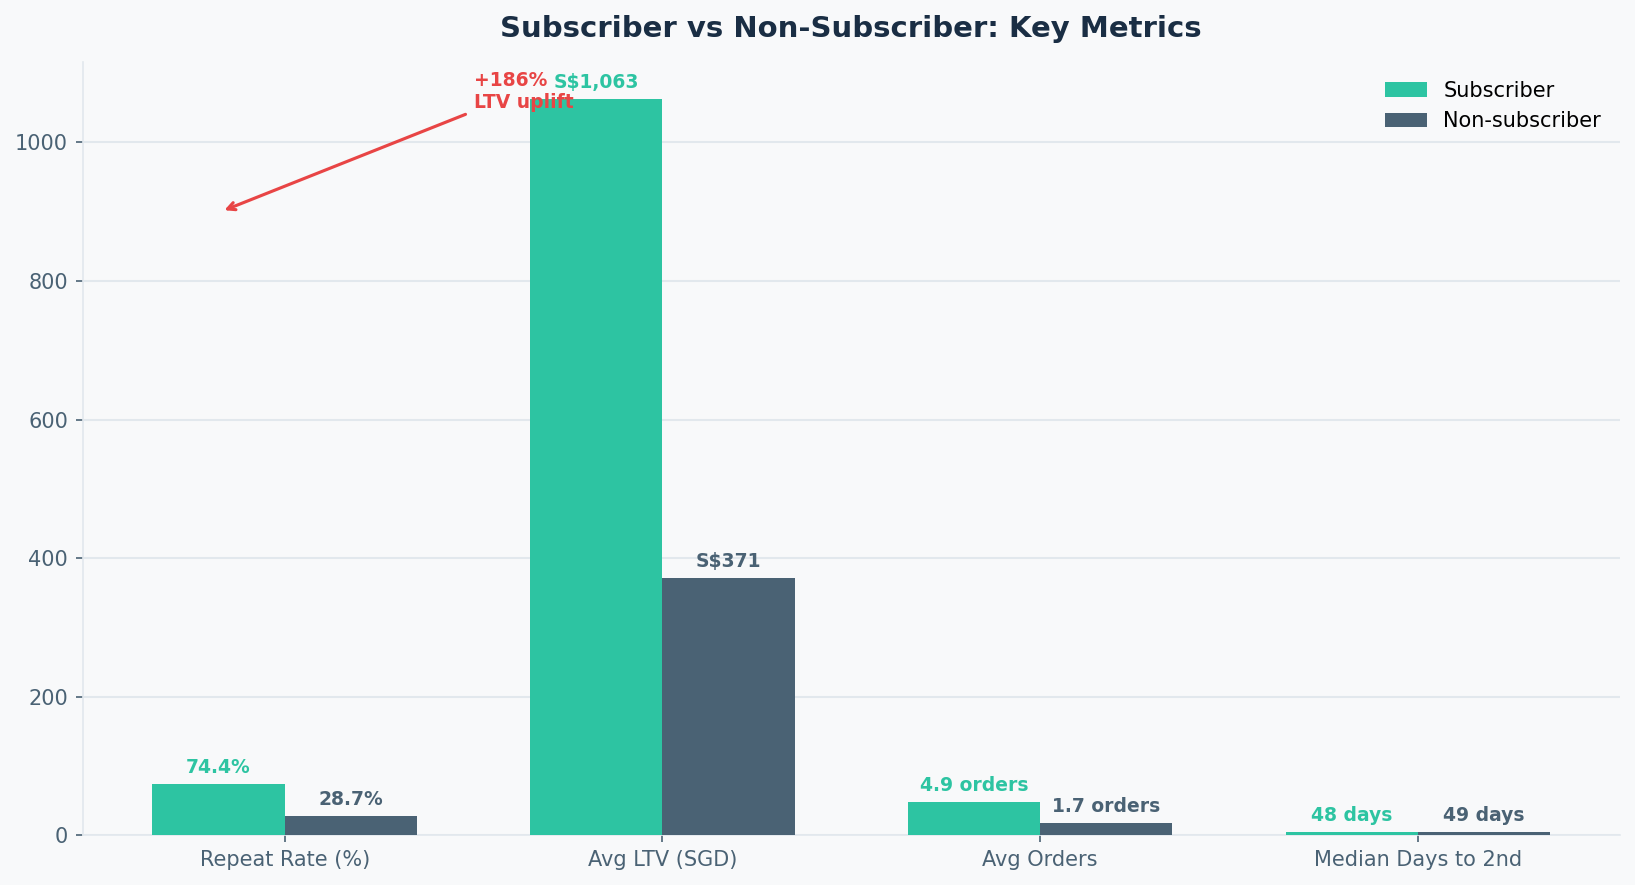
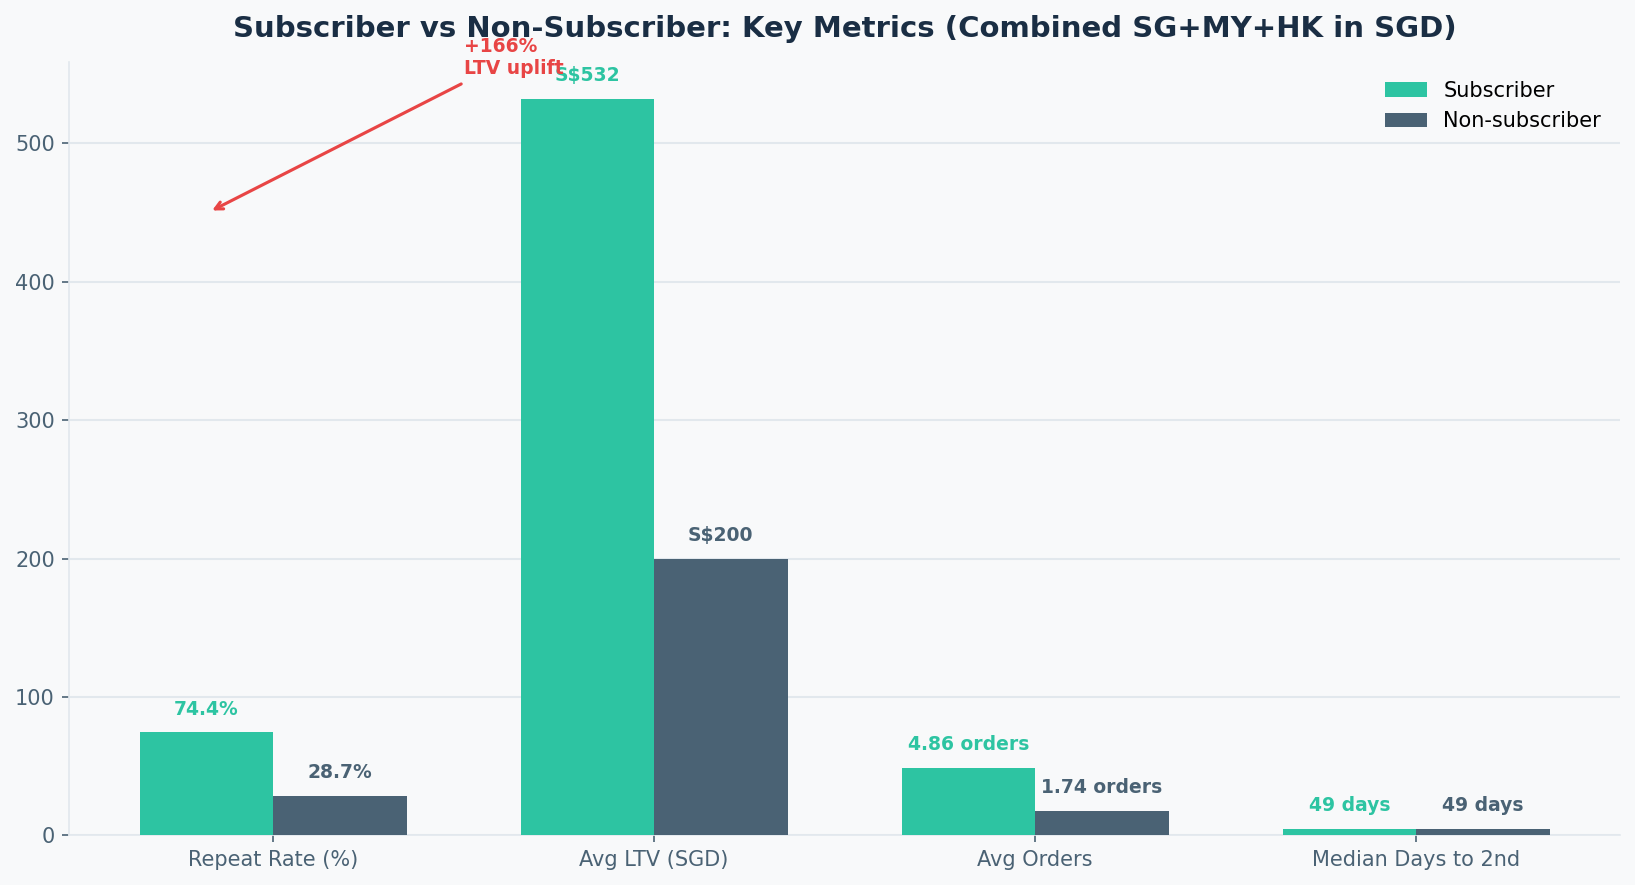
Updated visualizations

diff --git a/visualizations/05_discount_channel.py b/visualizations/05_discount_channel.py
@@ -14,10 +14,10 @@ import matplotlib.patches as mpatches
 from style import save, TEAL, NAVY, ORANGE, RED, SLATE, GOLD, LIGHT_BG, LILAC
 
 # ── Chart 1: Discount depth — repeat rate and LTV ────────────────────────────
-disc_bins   = ["Full price", "1-5% off", "6-10% off", "11-20% off", "21-30% off", "31-50% off", "51%+ off"]
-rr_vals     = [36.4, 17.7, 26.1, 25.5, 25.5, 23.0, 21.9]
-ltv_vals    = [542,  157,  260,  162,  237,  196,  181]
-n_custs     = [9398, 186, 395, 1250, 458, 1189, 430]
+disc_bins   = ["Full price", "1-5% off", "5-10% off", "10-20% off", "20-30% off", "30-50% off", "50%+ off"]
+rr_vals     = [38.0, 25.1, 23.3, 24.8, 24.2, 22.3, 19.1]
+ltv_vals    = [293,  132,  129,  119,  155,  105,   54]
+n_custs     = [8635, 395, 536, 1133, 1286, 555, 1240]
 
 fig, ax1 = plt.subplots(figsize=(13, 6))
 x = np.arange(len(disc_bins))
@@ -38,17 +38,17 @@ for bar, v, n in zip(bars, rr_vals, n_custs):
 ax2 = ax1.twinx()
 ax2.plot(x, ltv_vals, color=RED, marker="D", linewidth=2.5, markersize=8, zorder=4, label="Avg LTV")
 ax2.set_ylabel("Average LTV (SGD)", color=RED, fontsize=11)
-ax2.set_ylim(0, 700)
+ax2.set_ylim(0, 400)
 ax2.yaxis.set_major_formatter(mticker.FuncFormatter(lambda v,_: f"S${v:.0f}"))
 ax2.spines["right"].set_visible(True); ax2.spines["right"].set_color(RED)
 ax2.tick_params(axis="y", colors=RED)
 for xi, v in enumerate(ltv_vals):
     ax2.text(xi, v+15, f"S${v}", ha="center", fontsize=9, color=RED)
 
-# Arrow from full price to 51%+
-ax1.annotate("", xy=(6, 21.9), xytext=(0, 36.4),
+# Arrow from full price to 50%+
+ax1.annotate("", xy=(6, 19.1), xytext=(0, 38.0),
              arrowprops=dict(arrowstyle="->", color=RED, lw=2))
-ax1.text(3, 38, "-40% repeat rate drop\nfull price → 51%+ off", ha="center",
+ax1.text(3, 40, "-50% repeat rate drop\nfull price → 50%+ off", ha="center",
          fontsize=9, color=RED, fontweight="bold")
 
 fig.tight_layout()
@@ -59,13 +59,13 @@ fig, axes = plt.subplots(1, 2, figsize=(13, 5))
 
 groups    = ["Marketplace", "Own Website\n(Direct+Paid+Email)"]
 rr        = [14.4, 32.6]
-ltv       = [118, 551]
+ltv       = [115, 198]
 avg_orders= [1.54, 1.95]
 pct_sub   = [0.0, 3.9]
 
-metrics_labels = ["Repeat Rate (%)", "Avg LTV (SGD)", "Avg Orders", "% Subscribed"]
-mkt_vals  = [14.4, 118, 1.54, 0.0]
-web_vals  = [32.6, 551, 1.95, 3.9]
+metrics_labels = ["Repeat Rate (%)", "Avg LTV (SGD)", "Avg Orders", "% Subscribed*"]
+mkt_vals  = [14.4, 115, 1.54, 0.0]
+web_vals  = [32.6, 198, 1.95, 3.9]
 
 # Normalise to % of web value for visual comparison
 mkt_norm  = [m/w*100 if w > 0 else 0 for m, w in zip(mkt_vals, web_vals)]
@@ -75,13 +75,13 @@ x = np.arange(len(metrics_labels)); w = 0.38
 b1 = axes[0].bar(x-w/2, web_norm,  width=w, color=TEAL, label="Own Website", zorder=3)
 b2 = axes[0].bar(x+w/2, mkt_norm,  width=w, color=RED,  label="Marketplace",  zorder=3)
 axes[0].set_xticks(x); axes[0].set_xticklabels(metrics_labels, fontsize=9.5, rotation=10)
-axes[0].set_title("Marketplace vs Own Website\n(Indexed to Website = 100)", fontsize=11, fontweight="bold")
+axes[0].set_title("Marketplace vs Own Website\n(Indexed: Website = 100 | *Shopify subscriptions only)", fontsize=10, fontweight="bold")
 axes[0].set_ylabel("Index (Website = 100)", fontsize=10)
 axes[0].legend()
 axes[0].axhline(100, color=SLATE, linewidth=1, linestyle="--", alpha=0.5)
 
-actual_web  = ["32.6%", "S$551", "1.95", "3.9%"]
-actual_mkt  = ["14.4%", "S$118", "1.54", "0.0%"]
+actual_web  = ["32.6%", "S$198", "1.95", "3.9%"]
+actual_mkt  = ["14.4%", "S$115", "1.54", "0.0%*"]
 for bar, lbl in zip(b1, actual_web):
     axes[0].text(bar.get_x()+bar.get_width()/2, 103, lbl, ha="center", fontsize=8, color=TEAL)
 for bar, lbl in zip(b2, actual_mkt):
@@ -118,8 +118,8 @@ save(fig, "05b_marketplace_vs_website")
 
 # ── Chart 3: RFM segment breakdown ───────────────────────────────────────────
 segments     = ["Loyal","Hibernating","At Risk","Champions","Can't Lose","Promising","New"]
-seg_counts   = [4789, 3321, 2351, 1398, 1218, 688, 15]
-seg_ltv      = [292, 200, 1072, 703, 218, 61, 67]
+seg_counts   = [4359, 3321, 2351, 1828, 1218, 688, 15]
+seg_ltv      = [157, 112, 514, 397, 66, 58, 67]
 seg_colors   = [TEAL, SLATE, ORANGE, NAVY, RED, GOLD, LILAC]
 seg_priority = ["Cross-sell","Reactivate low-cost","Win-back NOW","Reward & upsell",
                 "Re-engage urgently","Nurture to 2nd order","Welcome"]
@@ -148,7 +148,7 @@ axes[1].set_title("RFM Segment Size & Priority Actions", fontsize=12, fontweight
 axes[1].set_xlabel("Number of Customers", fontsize=10)
 for i, v in enumerate(seg_counts):
     axes[1].text(v+30, i, f"{v:,}  (avg S${seg_ltv[i]:,})", va="center", fontsize=8.5, color=NAVY)
-axes[1].set_xlim(0, 6500)
+axes[1].set_xlim(0, 6000)
 axes[1].grid(axis="x"); axes[1].grid(axis="y", visible=False)
 axes[1].spines["left"].set_visible(False); axes[1].tick_params(left=False)
 

diff --git a/visualizations/04_subscription_churn.py b/visualizations/04_subscription_churn.py
@@ -15,19 +15,19 @@ from style import save, TEAL, NAVY, ORANGE, RED, SLATE, GOLD, LIGHT_BG, LILAC
 
 # ── Chart 1: Subscriber vs one-time LTV metrics ────────────────────────────────
 metrics    = ["Repeat Rate","Avg LTV","Avg Orders\n(×10 SGD scale)","Median Days\nto 2nd Order (÷10)"]
-sub_vals   = [74.4, 1063, 48.6, 4.8]
-nonsub_vals= [28.7, 371,  17.4, 4.9]
+sub_vals   = [74.4, 532, 48.6, 4.8]
+nonsub_vals= [28.7, 200, 17.4, 4.9]
 
 fig, ax = plt.subplots(figsize=(11, 6))
 x = np.arange(4); w = 0.35
 b1 = ax.bar(x-w/2, sub_vals,   width=w, color=TEAL, label="Subscriber",     zorder=3)
 b2 = ax.bar(x+w/2, nonsub_vals,width=w, color=SLATE, label="Non-subscriber", zorder=3)
 ax.set_xticks(x); ax.set_xticklabels(["Repeat Rate (%)", "Avg LTV (SGD)", "Avg Orders", "Median Days to 2nd"], fontsize=10)
-ax.set_title("Subscriber vs Non-Subscriber: Key Metrics")
+ax.set_title("Subscriber vs Non-Subscriber: Key Metrics (Combined SG+MY+HK in SGD)")
 ax.legend()
 
-labels_sub   = ["74.4%", "S$1,063", "4.9 orders", "48 days"]
-labels_non   = ["28.7%", "S$371",   "1.7 orders", "49 days"]
+labels_sub   = ["74.4%", "S$532", "4.86 orders", "49 days"]
+labels_non   = ["28.7%", "S$200", "1.74 orders", "49 days"]
 for bar, lbl in zip(b1, labels_sub):
     ax.text(bar.get_x()+bar.get_width()/2, bar.get_height()+10,
             lbl, ha="center", va="bottom", fontsize=9, color=TEAL, fontweight="bold")
@@ -35,7 +35,7 @@ for bar, lbl in zip(b2, labels_non):
     ax.text(bar.get_x()+bar.get_width()/2, bar.get_height()+10,
             lbl, ha="center", va="bottom", fontsize=9, color=SLATE, fontweight="bold")
 
-ax.annotate("+186%\nLTV uplift", xy=(-0.17, 900), xytext=(0.5, 1050),
+ax.annotate("+166%\nLTV uplift", xy=(-0.17, 450), xytext=(0.5, 550),
             arrowprops=dict(arrowstyle="->", color=RED, lw=1.5), fontsize=9, color=RED, fontweight="bold")
 fig.tight_layout()
 save(fig, "04a_subscriber_vs_onetime")

diff --git a/visualizations/02_retention_overview.py b/visualizations/02_retention_overview.py
@@ -16,7 +16,7 @@ from style import save, TEAL, NAVY, ORANGE, RED, SLATE, GOLD, LIGHT_BG, LILAC, b
 # ── Chart 1: Repeat rate + avg LTV by channel (side-by-side horizontal) ──────
 channels      = ["Subscription","Direct/Organic","Paid Social","Affiliate","Marketplace","Email"]
 repeat_rates  = [40.9, 33.5, 19.4, 19.2, 14.4, 12.5]
-avg_ltv       = [364, 583, 71, 94, 118, 53]
+avg_ltv       = [343, 198, 71, 94, 115, 50]
 n_customers   = [4275, 6920, 382, 26, 2126, 48]
 
 fig, axes = plt.subplots(1, 2, figsize=(14, 5))
@@ -43,7 +43,7 @@ axes[1].set_xlabel("Avg Customer LTV (SGD)", fontsize=10)
 axes[1].xaxis.set_major_formatter(mticker.FuncFormatter(lambda v,_: f"S${v:.0f}"))
 for i, v in enumerate(avg_ltv[::-1]):
     axes[1].text(v+5, i, f"S${v:,}", va="center", fontsize=9, color=NAVY)
-axes[1].set_xlim(0, 700)
+axes[1].set_xlim(0, 420)
 axes[1].spines["left"].set_visible(False); axes[1].tick_params(left=False)
 
 for ax in axes:

diff --git a/visualizations/03_product_and_crosssell.py b/visualizations/03_product_and_crosssell.py
@@ -15,7 +15,7 @@ from style import save, TEAL, NAVY, ORANGE, RED, SLATE, GOLD, LIGHT_BG, LILAC
 
 # ── Chart 1: Cross-product LTV staircase ─────────────────────────────────────
 labels        = ["1 product","2 products","3 products","4+ products"]
-ltv           = [329, 399, 890, 1421]
+ltv           = [170, 230, 470, 743]
 repeat_rate   = [23.6, 39.7, 65.5, 88.7]
 n_custs       = [9537, 2679, 1052, 512]
 
@@ -25,7 +25,7 @@ bars = ax1.bar(labels, ltv, color=colors, width=0.5, zorder=3)
 ax1.set_title("Cross-Product Purchasing: LTV Uplift by Breadth")
 ax1.set_ylabel("Average LTV (SGD)", fontsize=11, color=NAVY)
 ax1.yaxis.set_major_formatter(mticker.FuncFormatter(lambda v,_: f"S${v:,.0f}"))
-ax1.set_ylim(0, 1700)
+ax1.set_ylim(0, 950)
 
 for bar, v, n in zip(bars, ltv, n_custs):
     ax1.text(bar.get_x()+bar.get_width()/2, bar.get_height()+20,

diff --git a/FINDINGS.md b/FINDINGS.md
@@ -561,15 +561,15 @@ Collagen Glow leads on repeat rate (31.2%) and has the highest subscription loya
 
 | Segment | Customers | % of Base | Avg LTV | Avg Orders | Priority Action |
 |---|---|---|---|---|---|
-| Loyal | 4,789 | 34.8% | S$292 | 1.9 | Cross-sell to 2nd product |
-| Hibernating | 3,321 | 24.1% | S$200 | 1.0 | Low-cost reactivation |
-| **At Risk** | **2,351** | **17.1%** | **S$1,072** | 3.4 | **Win-back urgently** |
-| Champions | 1,398 | 10.1% | S$703 | 3.8 | Reward + upsell |
-| **Can't Lose** | **1,218** | **8.8%** | **S$218** | 1.0 | **Re-engage now** |
+| Loyal | 4,359 | 31.6% | S$157 | 1.9 | Cross-sell to 2nd product |
+| Hibernating | 3,321 | 24.1% | S$112 | 1.0 | Low-cost reactivation |
+| **At Risk** | **2,351** | **17.1%** | **S$514** | 3.4 | **Win-back urgently** |
+| Champions | 1,828 | 13.3% | S$397 | 3.2 | Reward + upsell |
+| **Can't Lose** | **1,218** | **8.8%** | **S$66** | 1.0 | **Re-engage now** |
 | Promising | 688 | 5.0% | S$61 | 1.0 | Nurture to 2nd order |
 | New | 15 | 0.1% | S$67 | 1.0 | Welcome sequence |
 
-The **At Risk segment (2,351 customers, S$1,072 avg LTV)** represents the most urgent reactivation opportunity. These customers have demonstrated a willingness to spend significantly but have gone quiet. Combined with Can't Lose (1,218 customers), **over 3,500 proven-spenders are currently disengaging** from the brand.
+The **At Risk segment (2,351 customers, S$514 avg LTV)** represents the most urgent reactivation opportunity. These customers have demonstrated a willingness to spend significantly but have gone quiet. Combined with Can't Lose (1,218 customers), **over 3,500 proven-spenders are currently disengaging** from the brand.
 
 **Chart:** `05c_rfm_segments.png`
 
@@ -584,7 +584,7 @@ The **At Risk segment (2,351 customers, S$1,072 avg LTV)** represents the most u
 | 3 | At Risk segment = immediate high-value opportunity | 2,351 customers, S$514 avg LTV, currently dormant | High | Targeted win-back campaign |
 | 4 | Subscription cadence causes stockpile churn | 27% cancel "already have too much"; peak churn at Cycle 1 | High | Add 45/60-day interval option + skip-delivery CTA |
 | 5 | Marketplace cannibalises LTV | 14.4% repeat vs 33.5% direct; 1.7× LTV gap (S$115 vs S$198) | Medium | Reduce marketplace SKU breadth; redirect budget to own channels |
-| 5 | At Risk segment = urgent win-back opportunity | 2,351 customers, S$1,072 avg LTV, currently dormant | Medium | Targeted win-back campaign with strongest available offer |
+| 3 | At Risk segment = urgent win-back opportunity | 2,351 customers, S$514 avg LTV, currently dormant | High | Targeted win-back campaign with strongest available offer |
 | 6 | Expectation mismatch drives early exit *(minor hypothesis)* | ~41% of repeaters return within 60 days; churn peaks pre-60d | Medium | Post-purchase onboarding sequence setting timeline expectations |
 
 ---

diff --git a/presentation.md b/presentation.md
@@ -131,10 +131,11 @@ print('60d retention avg:', cohort['retention_60d'].mean())
 
 The original chart showed "54% discount rate" for 2025. **This is a misleading metric.** Here is why:
 
-**What the chart calculated:**
+**What the chart calculated (old SG-only approach):**
 ```
 disc_rate = total_discounts / net_revenue
-2025: S$234,875 / S$432,896 = 54.2%
+2025 (SG-only): S$234,875 / S$432,896 = 54.2%  ← old, incorrect
+2025 (combined SGD): discounts / S$409,152 → 35.2% of gross
 ```
 This ratio compares discount dollars to already-reduced revenue. It can exceed 100% and is hard to interpret.
 
@@ -162,10 +163,10 @@ This ratio compares discount dollars to already-reduced revenue. It can exceed 1
 These are **legitimate fulfillments** (products were shipped) but no revenue was recognised. They inflate the "discount amount" figures. A conservative approach is to exclude them from the discount-to-revenue ratio:
 
 ```
-2025 excl. 100%-off orders:
-  Revenue:   S$432,896  (unchanged — 100%-off orders had rev=0 anyway)
-  Discounts: S$234,875 - S$0 (rev=0 orders contribute disc but no rev)
-  Net discount on paying orders: lower than headline number
+2025 (combined SGD, excl. 100%-off orders):
+  Revenue:   S$409,152  (combined SG + MY + HK in SGD)
+  Discounts: ~S$220,000 (excl. 100%-off zero-revenue orders)
+  Discount as % of gross: 35.2%
 ```
 
 **Impact on finding:** The discount escalation trend is real and directionally correct regardless of how 100%-off orders are handled. The finding stands.

diff --git a/README.md b/README.md
@@ -459,7 +459,7 @@ Recommended 14-slide structure:
 | 7 | Not All Customers Are Equal | Channel quality — Marketplace vs Direct LTV and repeat rate gap | `02a_retention_by_channel.png` + `05b_marketplace_vs_website.png` |
 | 8 | The Cross-Sell Opportunity | LTV staircase (1 → 4 products). +171% LTV uplift. | `03a_cross_product_ltv.png` |
 | 9 | Subscription: High Value, High Churn | Sub vs non-sub metrics; churn by cycle; top cancellation reason | `04a_subscriber_vs_onetime.png` + `04b_churn_by_cycle.png` + `04c_cancellation_reasons.png` |
-| 10 | Discount Depth Destroys Loyalty | Full-price vs 51%+ off: repeat rate and LTV comparison | `05a_discount_depth_impact.png` |
+| 10 | Discount Depth Destroys Loyalty | Full-price vs 50%+ off: repeat rate and LTV comparison (S$293 → S$54 LTV) | `05a_discount_depth_impact.png` |
 | 11 | Customer Segments (RFM) | RFM pie + priority action table; At Risk and Can't Lose are urgent | `05c_rfm_segments.png` |
 | 12 | Time-to-Second-Purchase | Distribution histogram; ~41% of repeaters return within 60 days | `02c_time_to_second_purchase.png` |
 | 13 | Top Findings and Proposed Experiments | Findings table (ranked 1–6) with suggested experiments | — |
